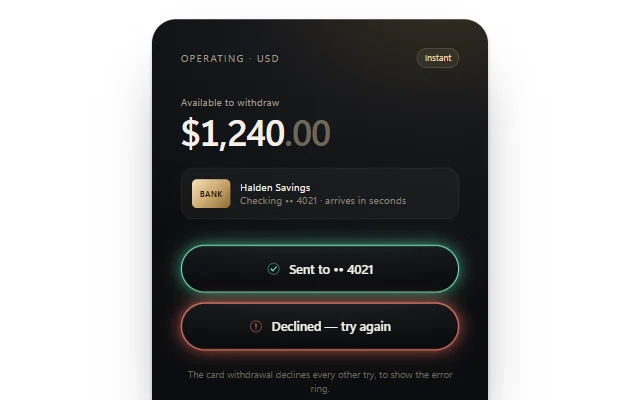
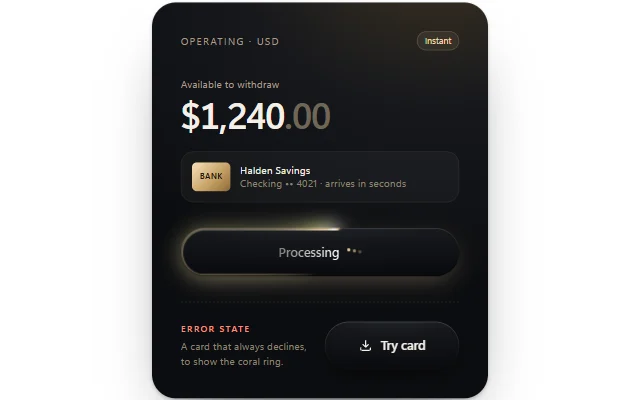
comet-orbit-button: one hero button plus a labelled always-declines example; brighter comet
The demo no longer shows two identical Processing buttons. The comet has a wider white-hot head,
a thicker ring with a drop-shadow, a brighter halo, and the busy pill picks up a warm underglow.

diff --git a/components/comet-orbit-button/comet-orbit-button.tsx b/components/comet-orbit-button/comet-orbit-button.tsx
@@ -38,9 +38,10 @@ const CSS =
   ".cob-btn:focus-visible{box-shadow:0 0 0 2px #0b0c0f,0 0 0 4px var(--cob-c),0 10px 24px -10px rgba(0,0,0,.7)}" +
   ".cob-btn[aria-disabled=true]{cursor:default}" +
   // the orbit: a conic comet masked down to a hairline ring, plus a blurred twin behind for the glow
-  ".cob-ring,.cob-glow{position:absolute;pointer-events:none;border-radius:999px;background:conic-gradient(from var(--cob-a),transparent 0turn,transparent .5turn,color-mix(in oklab,var(--cob-c) 35%,transparent) .78turn,var(--cob-c) .965turn,#fff .985turn,transparent 1turn);opacity:0;transition:opacity .5s}" +
-  ".cob-ring{inset:0;padding:2px;-webkit-mask:linear-gradient(#000 0 0) content-box,linear-gradient(#000 0 0);-webkit-mask-composite:xor;mask:linear-gradient(#000 0 0) content-box exclude,linear-gradient(#000 0 0);z-index:2}" +
-  ".cob-glow{inset:-5px;filter:blur(14px) saturate(1.4);z-index:-1}" +
+  ".cob-ring,.cob-glow{position:absolute;pointer-events:none;border-radius:999px;background:conic-gradient(from var(--cob-a),transparent 0turn,transparent .42turn,color-mix(in oklab,var(--cob-c) 30%,transparent) .7turn,var(--cob-c) .93turn,#fff .975turn,var(--cob-c) .99turn,transparent 1turn);opacity:0;transition:opacity .5s}" +
+  ".cob-ring{inset:0;padding:2.5px;filter:drop-shadow(0 0 3px var(--cob-c));-webkit-mask:linear-gradient(#000 0 0) content-box,linear-gradient(#000 0 0);-webkit-mask-composite:xor;mask:linear-gradient(#000 0 0) content-box exclude,linear-gradient(#000 0 0);z-index:2}" +
+  ".cob-glow{inset:-3px;filter:blur(11px) saturate(1.5) brightness(1.25);z-index:-1}" +
+  ".cob-root[data-s=busy] .cob-btn{box-shadow:inset 0 1px 0 rgba(255,255,255,.13),inset 0 -1px 0 rgba(0,0,0,.6),0 1px 2px rgba(0,0,0,.4),0 10px 30px -8px color-mix(in oklab,var(--cob-c) 35%,transparent),0 30px 60px -30px rgba(0,0,0,.8)}" +
   ".cob-root[data-s=idle]:hover .cob-ring,.cob-root[data-s=idle]:focus-within .cob-ring{opacity:.55}.cob-root[data-s=idle]:hover .cob-glow{opacity:.25}" +
   ".cob-root[data-s=idle] .cob-ring,.cob-root[data-s=idle] .cob-glow{animation:cob-spin 4.2s linear infinite}" +
   ".cob-root[data-s=busy] .cob-ring{opacity:1}.cob-root[data-s=busy] .cob-glow{opacity:1}" +

diff --git a/components/comet-orbit-button/demo.tsx b/components/comet-orbit-button/demo.tsx
@@ -3,7 +3,6 @@
 import CometOrbitButton from "@/components/ui/comet-orbit-button"
 
 const wait = (ms: number) => new Promise((r) => setTimeout(r, ms))
-let attempts = 0
 
 export default function Demo() {
   return (
@@ -38,18 +37,25 @@ export default function Demo() {
         <div className="mt-8">
           <CometOrbitButton width="100%" onAction={() => wait(2200)} />
         </div>
-        <div className="mt-3">
-          <CometOrbitButton
-            width="100%"
-            label="Withdraw to card"
-            doneLabel="Sent to •• 8817"
-            onAction={async () => {
-              await wait(1600)
-              if (attempts++ % 2 === 0) throw new Error("declined")
-            }}
-          />
+        <div className="mt-8 border-t border-dashed pt-6" style={{ borderColor: "rgba(255,255,255,.08)" }}>
+          <div className="flex items-center justify-between gap-4">
+            <div className="min-w-0">
+              <p className="text-[11px] font-medium tracking-[0.16em] text-[#ff8a7a]">ERROR STATE</p>
+              <p className="mt-1 text-[13px] leading-snug text-[#8e8473]">A card that always declines, to show the coral ring.</p>
+            </div>
+            <CometOrbitButton
+              width={168}
+              label="Try card"
+              busyLabel="Checking"
+              errorLabel="Declined"
+              accent="#ff9d8a"
+              onAction={async () => {
+                await wait(1400)
+                throw new Error("declined")
+              }}
+            />
+          </div>
         </div>
-        <p className="mt-5 text-center text-[12px] text-[#6f6758]">The card withdrawal declines every other try, to show the error ring.</p>
       </div>
     </div>
   )
